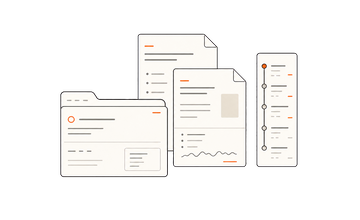
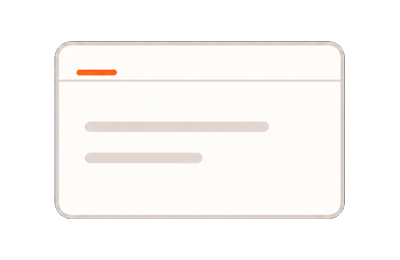
Align panel empty-state actions

Changed region(s): [[0.1222, 0.1364, 0.8861, 0.8455]]

diff --git a/src/components/ui/atelier-action-button.tsx b/src/components/ui/atelier-action-button.tsx
@@ -1,0 +1,51 @@
+import { forwardRef, type ButtonHTMLAttributes } from "react";
+
+import { cn } from "@/lib/utils";
+
+type AtelierActionButtonProps = ButtonHTMLAttributes<HTMLButtonElement> & {
+	readonly variant?: "primary" | "secondary";
+	readonly fullWidth?: boolean;
+};
+
+/**
+ * The featured and secondary actions used in Atelier's workspace surfaces.
+ *
+ * Keeping both treatments here makes their shared geometry and focus behavior
+ * explicit while allowing their visual hierarchy to differ by intent.
+ */
+const AtelierActionButton = forwardRef<
+	HTMLButtonElement,
+	AtelierActionButtonProps
+>(
+	(
+		{
+			className,
+			fullWidth = false,
+			type = "button",
+			variant = "primary",
+			...props
+		},
+		ref,
+	) => (
+		<button
+			ref={ref}
+			type={type}
+			data-ui="atelier-action-button"
+			data-slot="atelier-action-button"
+			data-variant={variant}
+			className={cn(
+				"inline-flex items-center justify-center gap-2 rounded-[9px] px-4 py-2.25 text-[13.5px] font-bold transition-[background-color,border-color,color,box-shadow,filter,transform] focus-visible:outline-none focus-visible:ring-2 focus-visible:ring-[var(--color-ring-focus-visible)] focus-visible:ring-offset-2",
+				fullWidth && "w-full",
+				variant === "primary"
+					? "bg-[linear-gradient(180deg,var(--color-bg-action-primary-start)_0%,var(--color-bg-action-primary-end)_100%)] text-[var(--color-text-on-action-primary)] shadow-[var(--shadow-action-primary)] hover:brightness-105 active:translate-y-px"
+					: "border border-[var(--color-border-action-secondary)] bg-[var(--color-bg-action-secondary)] text-[var(--color-text-on-action-secondary)] shadow-[var(--shadow-action-secondary)] hover:bg-[var(--color-bg-action-secondary-hover)] hover:text-[var(--color-text-on-action-secondary-hover)] active:translate-y-px",
+				className,
+			)}
+			{...props}
+		/>
+	),
+);
+
+AtelierActionButton.displayName = "AtelierActionButton";
+
+export { AtelierActionButton };

diff --git a/src/shell/panel-v2.tsx b/src/shell/panel-v2.tsx
@@ -28,6 +28,7 @@ import {
 	DropdownMenuItem,
 	DropdownMenuTrigger,
 } from "@/components/ui/dropdown-menu";
+import { AtelierActionButton } from "@/components/ui/atelier-action-button";
 import panelEmptyStatePreview from "../assets/panel-empty-state-preview.png";
 import type {
 	PanelSide,
@@ -450,27 +451,30 @@ function AddViewMenu({
 	return (
 		<DropdownMenu>
 			<DropdownMenuTrigger asChild>
-				<button
-					ref={triggerRef}
-					type="button"
-					title={isEmptyStateTrigger ? undefined : "Add view"}
-					aria-label={isEmptyStateTrigger ? "Open a view" : "Add view"}
-					data-attr={
-						isEmptyStateTrigger ? "panel-empty-open-view" : "panel-add-view"
-					}
-					className={clsx(
-						isEmptyStateTrigger
-							? "inline-flex h-10 w-full items-center justify-center gap-2 rounded-[9px] bg-[var(--color-bg-action-primary)] px-4 text-sm font-bold text-[var(--color-text-on-action-primary)] shadow-[0_6px_18px_rgba(154,52,18,0.24),inset_0_1px_0_rgba(255,255,255,0.18)] transition-colors hover:bg-[var(--color-bg-action-primary-hover)] focus-visible:outline-none focus-visible:ring-2 focus-visible:ring-[var(--color-ring-focus-visible)] focus-visible:ring-offset-2 focus-visible:ring-offset-[var(--color-bg-panel)]"
-							: "flex size-6 flex-none items-center justify-center rounded-md text-[var(--color-icon-tertiary)] hover:bg-[var(--color-bg-hover)] hover:text-[var(--color-icon-secondary)] focus-visible:outline-none focus-visible:ring-2 focus-visible:ring-[var(--color-ring-focus-visible)] focus-visible:ring-offset-1 focus-visible:ring-offset-[var(--color-bg-panel)]",
-					)}
-				>
-					<Plus
-						aria-hidden="true"
-						className={isEmptyStateTrigger ? "size-4" : "size-3.25"}
-						strokeWidth={isEmptyStateTrigger ? 2.25 : 2}
-					/>
-					{isEmptyStateTrigger ? <span>Open a view</span> : null}
-				</button>
+				{isEmptyStateTrigger ? (
+					<AtelierActionButton
+						ref={triggerRef}
+						aria-label="Open a view"
+						data-attr="panel-empty-open-view"
+						variant="secondary"
+						fullWidth
+						className="focus-visible:ring-offset-[var(--color-bg-panel)]"
+					>
+						<Plus aria-hidden="true" className="size-4" strokeWidth={2.25} />
+						<span>Open a view</span>
+					</AtelierActionButton>
+				) : (
+					<button
+						ref={triggerRef}
+						type="button"
+						title="Add view"
+						aria-label="Add view"
+						data-attr="panel-add-view"
+						className="flex size-6 flex-none items-center justify-center rounded-md text-[var(--color-icon-tertiary)] hover:bg-[var(--color-bg-hover)] hover:text-[var(--color-icon-secondary)] focus-visible:outline-none focus-visible:ring-2 focus-visible:ring-[var(--color-ring-focus-visible)] focus-visible:ring-offset-1 focus-visible:ring-offset-[var(--color-bg-panel)]"
+					>
+						<Plus aria-hidden="true" className="size-3.25" strokeWidth={2} />
+					</button>
+				)}
 			</DropdownMenuTrigger>
 			<DropdownMenuContent
 				align={side === "right" ? "end" : "start"}
@@ -540,7 +544,7 @@ function DefaultPanelEmptyState({
 						src={panelEmptyStatePreview}
 						alt=""
 						aria-hidden="true"
-						className="w-44 max-w-full object-contain @max-[300px]:w-36"
+						className="w-40 max-w-full object-contain @max-[300px]:w-32"
 					/>
 					<h2
 						id={headingId}

diff --git a/src/shell/theme.css b/src/shell/theme.css
@@ -56,9 +56,17 @@
 	--color-bg-action-primary: var(--color-brand-700);
 	--color-bg-action-primary-hover: var(--color-brand-800);
 	--color-text-on-action-primary: var(--color-neutral-0);
-	--color-bg-action-secondary: var(--color-neutral-900);
-	--color-bg-action-secondary-hover: var(--color-neutral-800);
-	--color-text-on-action-secondary: var(--color-neutral-0);
+	/* Shared workspace action recipes. */
+	--color-bg-action-primary-start: var(--color-brand-500);
+	--color-bg-action-primary-end: var(--color-brand-600);
+	--shadow-action-primary:
+		0 4px 14px rgba(232, 89, 12, 0.3), inset 0 1px 0 rgba(255, 255, 255, 0.25);
+	--color-bg-action-secondary: var(--color-bg-panel);
+	--color-bg-action-secondary-hover: var(--color-bg-hover);
+	--color-border-action-secondary: var(--color-border-panel);
+	--color-text-on-action-secondary: var(--color-text-secondary);
+	--color-text-on-action-secondary-hover: var(--color-text-primary);
+	--shadow-action-secondary: 0 1px 2px rgba(41, 37, 36, 0.04);
 	--color-bg-notice-neutral: var(--color-bg-hover);
 	--color-border-notice-neutral: transparent;
 	--color-icon-notice-neutral: var(--color-icon-secondary);

diff --git a/src/extensions/files/index.tsx b/src/extensions/files/index.tsx
@@ -1,6 +1,7 @@
 import { useCallback, useEffect, useMemo, useRef, useState } from "react";
 import { Files, FileUp, Plus } from "lucide-react";
 import fileNewIconUrl from "./assets/file-new.svg";
+import { AtelierActionButton } from "@/components/ui/atelier-action-button";
 import { LixProvider, useLix, useQuery } from "@/lib/lix-react";
 import { isMarkdownFilePath } from "@/extension-runtime/file-handlers";
 import { selectFilesystemEntries } from "@/queries";
@@ -930,10 +931,8 @@ function FilesViewContent({
 				>
 					<div className="mx-auto flex min-h-0 w-full max-w-[760px] flex-1 flex-col px-3.5 pt-13 pb-10">
 						<div className="flex shrink-0 justify-end pb-6">
-							<button
-								type="button"
+							<AtelierActionButton
 								onClick={handleNewFile}
-								className="inline-flex items-center gap-2 rounded-[9px] bg-[linear-gradient(180deg,var(--color-brand-500)_0%,var(--color-brand-600)_100%)] px-4 py-2.25 text-[13.5px] font-bold text-white shadow-[0_4px_14px_rgba(232,89,12,0.3),inset_0_1px_0_rgba(255,255,255,0.25)] transition-[filter,transform] hover:brightness-105 active:translate-y-px focus-visible:outline-none focus-visible:ring-2 focus-visible:ring-[var(--color-ring-focus-visible)] focus-visible:ring-offset-2"
 								aria-label="New file"
 								data-attr="file-new-wide"
 							>
@@ -942,7 +941,7 @@ function FilesViewContent({
 								<span className="ml-0.5 text-xs font-semibold opacity-65">
 									⌘.
 								</span>
-							</button>
+							</AtelierActionButton>
 						</div>
 						<div
 							data-testid="files-view-tree-scroll"

diff --git a/src/extensions/files/index.test.tsx b/src/extensions/files/index.test.tsx
@@ -99,7 +99,11 @@ describe("FilesView", () => {
 		expect(await screen.findByTestId("files-view-wide")).toBeVisible();
 		expect(screen.queryByRole("heading", { name: "Files" })).toBeNull();
 		expect(screen.queryByText("2 files")).toBeNull();
-		expect(screen.getByRole("button", { name: "New file" })).toBeVisible();
+		const newFile = screen.getByRole("button", { name: "New file" });
+		expect(newFile).toBeVisible();
+		expect(newFile).toHaveAttribute("data-attr", "file-new-wide");
+		expect(newFile).toHaveAttribute("data-ui", "atelier-action-button");
+		expect(newFile).toHaveAttribute("data-variant", "primary");
 		expect(getFilesTreeItem("docs/")).toHaveTextContent("docs");
 		expect(queryFilesTreeItem("docs/guide.md")).toBeNull();
 

diff --git a/src/shell/side-panel.test.tsx b/src/shell/side-panel.test.tsx
@@ -180,6 +180,8 @@ describe("SidePanel", () => {
 		).toBeInTheDocument();
 		const openView = screen.getByRole("button", { name: "Open a view" });
 		expect(openView).toHaveAttribute("data-attr", "panel-empty-open-view");
+		expect(openView).toHaveAttribute("data-ui", "atelier-action-button");
+		expect(openView).toHaveAttribute("data-variant", "secondary");
 		expect(
 			screen.queryByRole("button", { name: "Open Files view" }),
 		).toBeNull();